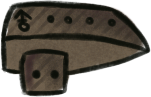
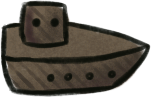
Updated ship sprites

diff --git a/Assets/Scripts/ShipSpawner.cs b/Assets/Scripts/ShipSpawner.cs
@@ -8,14 +8,14 @@ public class ShipSpawner : MonoBehaviour
     public Vector3 LowerLeftLimit;
 
     public float MarginOffset = 3f;
-    public GameObject ShipPrefab;
+    public GameObject[] ShipPrefabs;
 
     void Start()
     {
-        SpawnDirection(ShipPrefab, ShipDirection.North);
-        SpawnDirection(ShipPrefab, ShipDirection.South);
-        SpawnDirection(ShipPrefab, ShipDirection.East);
-        SpawnDirection(ShipPrefab, ShipDirection.West);
+        SpawnDirection(ShipPrefabs[0], ShipDirection.North);
+        SpawnDirection(ShipPrefabs[1], ShipDirection.South);
+        SpawnDirection(ShipPrefabs[2], ShipDirection.East);
+        SpawnDirection(ShipPrefabs[2], ShipDirection.West);
     }
 
     void Update()
